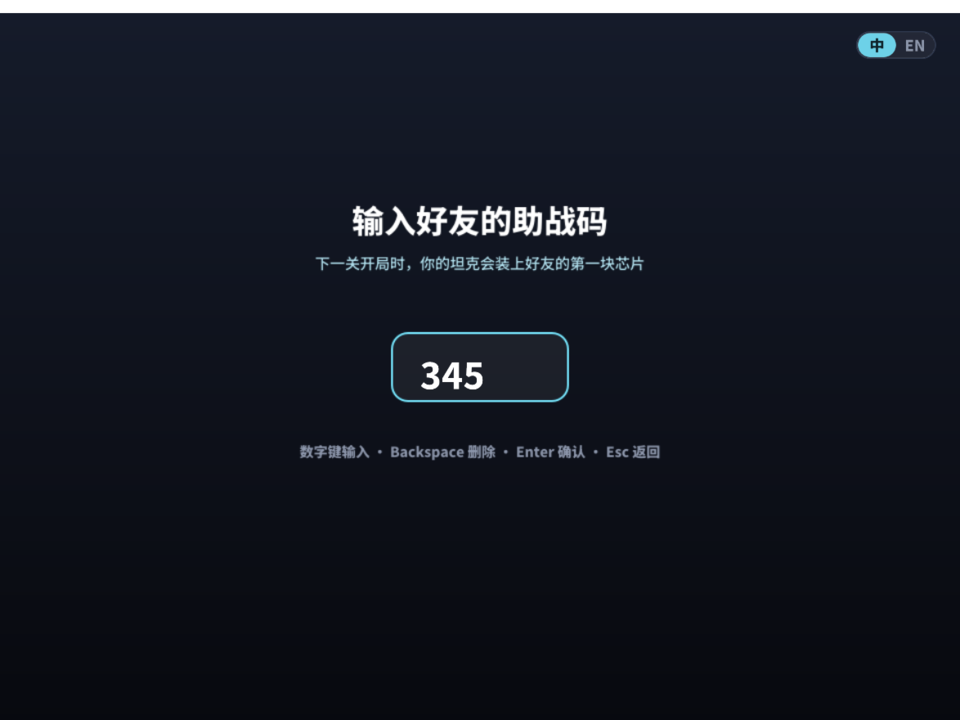
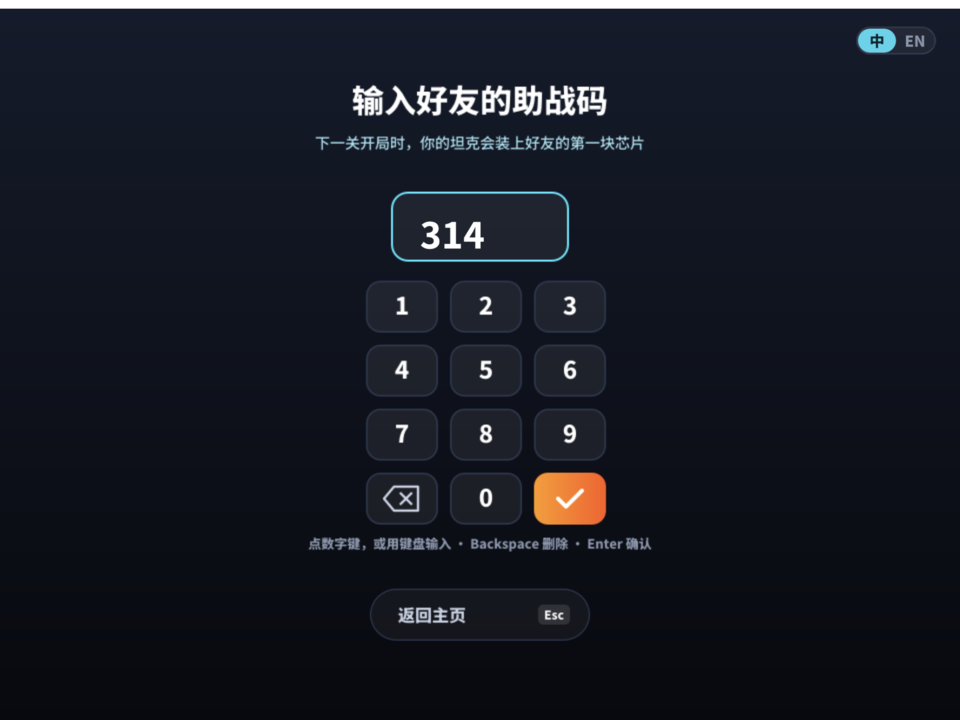
docs: v6 文档跟上手机操作补齐和排行榜部署准备（#91、#92）：117 个用例 ID，新的主页和助战码截图

diff --git a/docs/ARCHITECTURE.md b/docs/ARCHITECTURE.md
@@ -69,12 +69,12 @@ flowchart LR
 | 暂停 | `pauseGame()`（`gameOver = true` 冻结战场）、`resumeGame()`、`quitFromPause()`（自制地图回编辑器，其他回主页） |
 | 流程 | `goHome()`、`openLevels()`（选关画面）、`newGame(n, two)`、`playStage(n)`、`startGame()`、`again()`（结算后：下一关 / 重打本关 / 全部通关后回到第 1 关）、`watchAd()`、`revive()`（清场、补护墙、基地保护，见[第 5 节](#5-游戏流程状态机)）、`showResult()`、`setScreen()`、`confirm()`、`escKey()`（Esc 在各个画面做什么） |
 | 表现 | `look()`（画风后缀）、`langCode()`、`switchTheme()`、`switchLang()`、`toast()`、`shake()`、基地特写镜头、`lifeLook(n, slot, p2)`（生命图标用哪个造型：超过 3 条显示“图标 ×N”） |
-| 触屏 | `touchZone(x, y)`：手指按在哪里做什么。方向键范围内返回方向（移动并开火），战场内返回 1（只开火），顶栏和右侧面板返回 -1（不开火，按钮都在这里） |
+| 触屏 | `touchZone(x, y)`：手指按在哪里做什么。方向键范围内返回方向（移动并开火），战场内返回 1（只开火），顶栏和右侧面板返回 -1（不开火，按钮都在这里）。全屏画面和弹窗的按钮由 `UI.clickAt(x, y)` 按画面判断（区域来自生成的 `hit()`），测试直接调用它模拟点击 |
 | 界面布局 | `buildHud()`：创建所有 UI 克隆，坐标见[第 6 节](#6-坐标与布局) |
 | v6 局内升级 | 芯片规则 `chipKey` `chipRarity` `chipUnlocked` `hasChip`、效果 `bulletLimit` `bulletSpeed` `bounceLimit` `moveSpeed` `playerBlocked` `stealthed` `shieldBlock`、连携 `comboBarrage` `comboSalvo`；精英 `eliteSlot` `eliteDown`；三选一 `pickChip` `pickRoll` `pickChoose` `pickReroll`；等级 `resetRun` `snapRun` `clearRun` `loseLevel`；战术芯片 `fortify` `endFortify`（空袭广播 `bomb`、冰冻 `freezeLeft`）；每帧 `chipTick`（`chipLoop` 消息） |
 | v6 车库与存档 | `save.txt` 读写（`saveGame` `loadText` `initSave`）、指挥官等级（`gainXP` `levelForXP`）、钱包 `wallet`、涂装 `buySkin`、每日任务（`pickTasks` `taskAdd`）、`openGarage`；时间 `nowSec` / `today`（解释器里没有 `time.Now`，见 9.3） |
 | v6 每日挑战 | `dailyRows(day)`（按日期生成地图，和 `tools/levels/daily.py` 同一个算法）、`dailyRand`、`playDaily`、`dailyEnd`（一天一次正式成绩）；地图检查拆成纯函数 `mapProblem`，编辑器也用 |
-| v6 排行榜 | `lbRecord` `lbEnqueue` `lbFlush`（后台 goroutine 上传，离线排队）、`lbFetch` `lbHealth`、每帧 `lbPoll` 收结果、`openRanks` `lbShow` `lbText`；服务地址常量 `lbURL`（还没部署，是空的） |
+| v6 排行榜 | `lbRecord` `lbEnqueue` `lbFlush`（后台 goroutine 上传，离线排队）、`lbFetch` `lbHealth`、每帧 `lbPoll` 收结果、`openRanks` `lbShow` `lbText`；服务地址常量 `lbURL`（仓库里是空的，打包时用 `LB_URL` 填） |
 | v6 赛季与分享 | `seasonOf` `tierOf` `gainSeason`、连续打卡、`assistCode` / `assistDecode`、`openShare` `openAssist` `applyAssist`、`shareText` |
 | 画面小部件 | `panelOff` 和 `buildGarage` / `buildRanks` / `buildShare` / `buildAssist`：全屏画面的小部件打开时才创建（克隆上限，见 9.4） |
 | 路演演示 | `demoFlow` 消息处理（v2 内容之后调用 `demoV3()`：新关卡、双人合作、暂停菜单、编辑器里画地图并试玩；按 Esc 退出：`escKey` 设 `demoStop` 后重新广播 `demoFlow` 打断正在运行的演示，新的处理调用 `stopDemo()` 还原画风、语言和编辑器地图并回主页）、`autopilotDir()`、`seeEnemy()`、`autopilotBlocked()`、`waitState()` |
@@ -124,13 +124,13 @@ flowchart LR
 | `assets/textpath.py` | 把文字转成 SVG 路径；字体固定到 google/fonts 的某个提交并校验 sha256；缺字直接报错 |
 | `assets/build.py` | 生成：两套背景、现代画风的所有造型、经典画风的水面和草丛、`UI` 精灵的全部造型和 `index.json`、`UI.spx` 里的 `GENERATED widths` / `GENERATED hit` 区块 |
 | `levels/daily.py` | v6 每日挑战的地图生成器（和 `main.spx` 的 `dailyRows` 同一个算法）：打印某一天的地图，`--write` 重新生成 `tests/data/daily_maps.txt`（365 天） |
-| `server/leaderboard.py` | v6 自建排行榜服务（Python 标准库）：上传成绩、榜单、查名次、合理性检查、限频，海外 / 国内分开；接口见 `server/README.md`。还没部署 |
+| `server/leaderboard.py` | v6 自建排行榜服务（Python 标准库）：上传成绩、榜单、查名次、合理性检查、限频，海外 / 国内分开；接口见 `server/README.md`。部署文件在 `server/deploy/`（Docker + Caddy、systemd、冒烟检查），还没上线 |
 | `test/py_coverage.py` | v6 Python 行覆盖率（标准库 `trace`）：新工具要求 100% |
 | `levels/check.py` | 检查 `levelMap()` 里的每一关：13×13、出生点和基地位置、从出生点能到达基地、玩家能到达出生点、基地旁边没有钢墙和水面，1P / 2P 出生点都要能开到敌人出生点。地图编辑器的实时检查（`edCheck`）用同一套规则 |
 | `package_xbp.sh` | 打包 `TankBattle.xbp` |
 | `export/setup_spx.sh` | 准备打包环境：固定提交的 spx 源码（每次先恢复干净，再按顺序打 `export/patches/` 里的补丁）、`patch_spx.py` 改模板（包名、版本、图标、iOS 不签名）、xgo、`buildctl setup`；Go 版本和 `env.sh` 不一样时提醒（`GO_STRICT=1` 报错） |
 | `export/patches/` | 给 spx 源码打的补丁（`*.patch`，按文件名顺序打，打不上就停下），说明见里面的 `README.md`；`build.sh` 核对补丁改了而 spx 没重装时报错。目前没有补丁 |
-| `export/build.sh` | `build.sh <desktop\|web\|android\|ios> [--store] [--demo]`：`desktop`（buildlauncher 单文件，macOS 包成 .app）、`web`（exportweb + 外壳页面）、`android`（APK，触屏模式；先核对模板版本号，`SPX_REPATCH=1` 自动重装；调试证书在 `~/.config/tankbattle/debug.keystore`；Godot 编辑器设置里的 SDK 路径每次改成当前的）、`ios`（不签名 IPA，触屏模式；MoltenVK 核对 sha256）。`--store` / `--demo` 在副本里把 `storeBuild` / `demoBuild` 改成 true，包放 `dist/store/`、`dist/demo/`、`dist/store-demo/` |
+| `export/build.sh` | `build.sh <desktop\|web\|android\|ios> [--store] [--demo]`：`desktop`（buildlauncher 单文件，macOS 包成 .app）、`web`（exportweb + 外壳页面）、`android`（APK，触屏模式；先核对模板版本号，`SPX_REPATCH=1` 自动重装；调试证书在 `~/.config/tankbattle/debug.keystore`；Godot 编辑器设置里的 SDK 路径每次改成当前的）、`ios`（不签名 IPA，触屏模式；MoltenVK 核对 sha256）。`--store` / `--demo` 在副本里把 `storeBuild` / `demoBuild` 改成 true，包放 `dist/store/`、`dist/demo/`、`dist/store-demo/`；环境变量 `LB_URL` / `LB_REGION`（v6）把排行榜地址和区域写进副本的 `lbURL` / `lbRegion` |
 | `export/web/` | 网页版外壳：自动启动、4:3 铺满、多点触控虚拟按键、PWA |
 | `.github/workflows/release.yml` | 在云端打包（v3.0.0、v3.0.1 用它发布）。2026-10-25 起只能手动触发；输入 `platforms`（只打几个平台）、`upload_to`（补进已有的 Release）、`create_release`（在标签上新建 Release），**都不选时不发布**；第三方 Action 锁定到提交 SHA。平时用下面的 `build_local.sh` + `release_local.sh` 本机打包发布 |
 | `export/build_local.sh` | 本地打本机能打的全部平台（macOS、网页版、Android、Linux），每个包都检查（启动测试、直接运行安装包、PWA 文件、APK 签名和版本号），打不了的平台空着并写明原因，结果写在 `dist/BUILD_LOCAL.md`（记下提交号和工作区是否干净）；打包前删掉这次要打的平台的同版本旧包 |
@@ -201,7 +201,7 @@ stateDiagram-v2
   结算 --> 主页: H / 点击主页
 ```
 
-- `state` 取值：`stHome` `stPlay` `stRevive` `stAd` `stResult` `stEdit` `stPause` `stLevels`（选关画面，v5），v6 加了 `stPick`（三选一，战场冻结）、`stGarage`（车库，主页 G）、`stRanks`（排行榜，主页 B）、`stShare`（分享战报，每日挑战结算后 S）、`stAssist`（输入助战码，主页 A）。每日挑战是 `stage = dailyStage`（10），主页按 D。按键处理都先看 `state`，同一个键在不同画面有不同含义。
+- `state` 取值：`stHome` `stPlay` `stRevive` `stAd` `stResult` `stEdit` `stPause` `stLevels`（选关画面，v5），v6 加了 `stPick`（三选一，战场冻结）、`stGarage`（车库，主页 G）、`stRanks`（排行榜，主页 B）、`stShare`（分享战报，每日挑战结算后 S）、`stAssist`（输入助战码，主页 A 或“助战码”卡片，屏幕上有数字键盘）。每日挑战是 `stage = dailyStage`（10），主页按 D。按键处理都先看 `state`，同一个键在不同画面有不同含义。
 - `gameOver` 表示“战场冻结”，坦克和子弹在冻结时不动。除了 `stPlay` 以外的状态，战场都是冻结的。
 - **每关只能复活一次**：`reviveStage` 记下在哪一关复活过，`startGame` 里 `revived = reviveStage == stage`。暂停菜单的“重新开始本关”不清零（不会再给一次复活）；输了以后在结算画面重打本关、从主页或选关画面进关、过关进入下一关、试玩自制地图都会清零（可以再复活一次）。
 - **复活**（`revive()`）：修好基地、加命，广播 `reviveClear` 清掉敌人子弹和基地 3 格以内的敌人，按本关地图把基地四周碎了、裂了的护墙恢复成砖墙，广播 `baseGuard` 让基地 3 秒内打不掉。复活后如果敌人已经全灭，直接胜利结算。
@@ -441,7 +441,9 @@ v6.0 的 PR 依次叠在前一个上（#85 → #86 → … ），最后合入集
 | #88 | danielfeng | P3 每日挑战：全球同图同芯片、一天一次正式成绩（D01~D11） |
 | #89 | danielfeng | P3b 全球排行榜：服务端 `server/` + 客户端（R01~R29） |
 | #90 | danielfeng | P4 赛季、分享战报、助战码（S01~S09、Q04） |
-| #91 | danielfeng | v6 文档、截图、测试方案、Python 行覆盖、覆盖率基线（Q05~Q07） |
+| #91 | danielfeng | P4b 手机上也能用助战码和分享战报：主页卡片、屏幕数字键盘、点标签打开战报（S10~S11） |
+| #92 | danielfeng | P3c 排行榜部署准备：`server/deploy/`、打包时填 `LB_URL` / `LB_REGION`（R30~R32） |
+| #93 | danielfeng | v6 文档、截图、测试方案、Python 行覆盖、覆盖率基线（Q05~Q07） |
 
 ### 分工
 
@@ -458,7 +460,7 @@ v6.0 的 PR 依次叠在前一个上（#85 → #86 → … ），最后合入集
 | 演示视频与文档 | danielfeng | 实机截图、演示视频、README、架构文档、更新记录、v4.0 发布文档、v5.0 规划 |
 | v4.0.1 修复与本机打包 | danielfeng | 子弹迎面相撞的修复（#52）、本机打包和发布脚本（#51、#53） |
 | v5 第一批修复（P1） | danielfeng | 游戏修复和选关画面（#59~#76）、打包和测试工具（#65~#75）、难度模拟（#63）、文档 |
-| v6.0 功能与测试 | danielfeng | 敌我区分、精英与芯片、车库与存档、每日挑战、排行榜（服务端和客户端）、赛季与分享，以及每个功能的测试（#85~#91） |
+| v6.0 功能与测试 | danielfeng | 敌我区分、精英与芯片、车库与存档、每日挑战、排行榜（服务端和客户端）、赛季与分享、手机操作补齐、排行榜部署准备，以及每个功能的测试（#85~#93） |
 | 测试与覆盖率（v4.0） | zhangxunling | 测试方案、引擎内测试框架、全部测试用例（规则、流程、编辑器、双人、构建工具、网页外壳、XBuilder 兼容、安装包启动）、覆盖率统计和基线、本地检查 `pr_check.sh`、PR 模板 |
 
 测试与覆盖率的 PR 里，#24~#43 由 zhangxunling 的账号提交；#44~#47（网页外壳测试、XBuilder 兼容检查、安装包启动测试、覆盖率基线和 PR 模板）由 danielfeng 的账号代为提交，内容同属测试与覆盖率。测试发现的游戏问题（例如子弹相撞）由 danielfeng 确认和修复：v4.0.1 的修复（#52）先提交能复现问题的测试，再提交修复，都由 danielfeng 的账号提交。

diff --git a/docs/v6/PLAN.md b/docs/v6/PLAN.md
@@ -1,6 +1,6 @@
 # 坦克大战 v6.0 · 规划和实现：敌我区分、打精英升级、排行榜
 
-> **v6.0 的 P0~P4 已经实现**（PR #85~#89），截图都是游戏实际运行的画面（`screens/`）。还没做的：平台好友榜（P5，要等 SDK 桥）、排行榜服务的正式部署（服务端代码和测试已完成）。依据分三类：**代码**（仓库里的实现）、**公开资料**（2026-10-31 / 11-01 查阅，上线前要重新核对）、**推测**（所有留存和收入数字）。
+> **v6.0 的 P0~P4 已经实现**（PR #85~#92），截图都是游戏实际运行的画面（`screens/`）。还没做的：平台好友榜（P5，要等 SDK 桥）、排行榜服务正式上线（服务端、部署文件和测试都已完成，需要服务器和域名）。依据分三类：**代码**（仓库里的实现）、**公开资料**（2026-10-31 / 11-01 查阅，上线前要重新核对）、**推测**（所有留存和收入数字）。
 
 **目标只有一个：让玩家明天还想回来。** v5 的回本测算假设平均每个玩家只玩 2 天（[盈利方案](../v5/MONETIZATION.md)），多留一天，广告收入就多一半。
 
@@ -9,8 +9,8 @@
 | 1 | **敌我区分** | 我方亮色圆炮塔 + 光圈 + “1P · Lv3”标签；敌方统一枪灰色切角车身 + 红色标识 | ✅ #85 |
 | 2 | **局内升级** | 打掉紫色精英坦克掉芯片，三选一，最高 Lv4，被击毁掉 1 级 | ✅ #86 |
 | 3 | **局外成长** | 车库：指挥官等级解锁芯片（只加选择、不加数值），金币换涂装，每日任务，存档 | ✅ #87 |
-| 4 | **回来的理由** | 每日挑战（全球同图同芯片）、免费赛季、分享战报、助战码 | ✅ #88、#89 |
-| 5 | **排行榜** | 全球周榜、每日挑战榜自建（服务端 + 客户端，海外和国内分开）；好友榜用各平台自己的 | ✅ 自建榜（未部署）· ⏳ 好友榜 |
+| 4 | **回来的理由** | 每日挑战（全球同图同芯片）、免费赛季、分享战报、助战码 | ✅ #88、#90、#91 |
+| 5 | **排行榜** | 全球周榜、每日挑战榜自建（服务端 + 客户端，海外和国内分开）；好友榜用各平台自己的 | ✅ 自建榜（#89、#92，未上线）· ⏳ 好友榜 |
 | 6 | **测试全覆盖** | 每个用例 ID 都有测试，v6 新函数全部执行到，新工具 100% 行覆盖 | ✅ [测试方案](TEST_PLAN.md) |
 
 | 主页 | 战斗（双人、精英、掉落的芯片） | 三选一 |
@@ -81,8 +81,8 @@
 |---|---|
 | **每日挑战** | 主页按 D。地图按日期生成（北京时间 0 点换），全世界同一张图；敌人顺序和三选一也用当天的种子，卡池是全部 12 块（和指挥官等级无关）；只能单人。今天第一局是**正式成绩**，之后是练习。2026-11-01 是第 1 期。Python 版生成器 `tools/levels/daily.py` 和游戏里逐格相同，365 张都通过 `check.py` |
 | **免费赛季** | 6 周一季（2026-11-01 开始 S1）。积分：每日挑战正式成绩 50 + 得分 / 200，战役过一关 20；段位青铜 → 白银 300 → 黄金 800 → 铂金 1600 → 钻石 3000 → 王牌 5000；到黄金送赛季涂装；换季积分清零 |
-| **分享战报** | 每日挑战结算后按 S：期数、得分、用时、全球名次（联网时）、连续打卡、芯片、助战码。玩家截图分享；一键分享到微信要等 SDK 桥 |
-| **助战码** | 5 位数字（3 位芯片 + 2 位校验）。好友在主页按 A 输入，下一局战役开局装上你的第一块芯片（每日挑战不用，保证公平）。规划稿里的“链接点开、AI 坦克来帮守”要平台分享接口，先用助战码代替 |
+| **分享战报** | 每日挑战结算后按 S（手机上点“正式成绩”标签）：期数、得分、用时、全球名次（联网时）、连续打卡、芯片、助战码。玩家截图分享；一键分享到微信要等 SDK 桥 |
+| **助战码** | 5 位数字（3 位芯片 + 2 位校验）。好友在主页按 A 或点“助战码”卡片输入（手机上用屏幕数字键盘），下一局战役开局装上你的第一块芯片（每日挑战不用，保证公平）。规划稿里的“链接点开、AI 坦克来帮守”要平台分享接口，先用助战码代替 |
 | **看视频刷新** | 见第二节；去广告和 PC 版免费 |
 | **断签不惩罚** | 连续打卡只展示，断了从 1 开始，不扣东西 |
 
@@ -110,19 +110,19 @@
 
 | 榜 | 谁提供 | 内容 | 状态 |
 |---|---|---|---|
-| 每日挑战榜 | 自建 | 当天的正式成绩 | ✅ 客户端 + 服务端，未部署 |
+| 每日挑战榜 | 自建 | 当天的正式成绩 | ✅ 客户端 + 服务端 + 部署文件，未上线 |
 | 全球周榜 | 自建 | 单人战役的累计得分，周一换周 | ✅ 同上 |
 | 好友榜 | 各平台（Steam / Game Center / 微信开放数据域） | — | ⏳ P5，要等 SDK 桥 |
 
 - **服务端** `server/leaderboard.py`：只用 Python 标准库；上传、榜单、查名次；合理性检查（分数上限按关数、用时、芯片和等级）、限频、**海外（global）和国内（cn）完全分开**；不存 IP 等个人信息。接口见 [server/README.md](../../server/README.md)。
-- **客户端**：一局结束后在后台 goroutine 里上传（不卡画面）；没联网时排队（存档里也有，最多 20 条），联网后补传；排行榜画面按 B。服务地址是 `main.spx` 的常量 `lbURL`，**部署后填上**；现在是空的，游戏里显示“排行榜服务还没上线”。
+- **客户端**：一局结束后在后台 goroutine 里上传（不卡画面）；没联网时排队（存档里也有，最多 20 条），联网后补传；排行榜画面按 B。服务地址是 `main.spx` 的常量 `lbURL`，部署后打包时用 `LB_URL=https://...` 填上（只改打包副本，见 [server/README.md 的“部署”一节](../../server/README.md#部署)）；仓库里一直是空的，游戏里显示“排行榜服务还没上线”。
 - **玩家身份：不用手机号注册**。现在用第一次启动时生成的随机 16 位 ID，榜上显示“指挥官 #编号”；接上 SDK 后换成平台账号（Game Center 的 `teamPlayerID`、Play 游戏服务、微信 `openid`、SteamID）。不做跨平台账号：同一个人在 Steam 和微信是两条记录，正好分别进海外榜和国内榜。
 - **网页版拿不到本机时间**（spx 的解释器里没有 `time.Now`，桌面版用临时文件的修改时间）：用排行榜服务健康检查返回的日期。
 - 微信小游戏的实名和防沉迷由平台统一做（腾讯健康系统），上线前和版号要求一起核实。
 
 ## 六、测试全覆盖
 
-见 [v6 测试方案](TEST_PLAN.md)：16 个新测试文件、112 个用例 ID（V / U / K / D / R / S / Q），每个 ID 都有测试；`pr_check.sh --coverage` 在 v6 的 ID 缺测试、新函数没执行到、新工具行覆盖不到 100% 时直接失败。
+见 [v6 测试方案](TEST_PLAN.md)：17 个新测试文件、117 个用例 ID（V / U / K / D / R / S / Q），每个 ID 都有测试；`pr_check.sh --coverage` 在 v6 的 ID 缺测试、新函数没执行到、新工具行覆盖不到 100% 时直接失败。
 
 测试和截图发现的最大问题：spx 和 Scratch 一样**全部精灵最多 300 个克隆**，排行榜的数字克隆常驻时超过上限，地图格子和敌人出不来（不报错）。现在全屏画面的小部件按需创建、离开时删掉，并加了克隆预算测试。
 
@@ -136,12 +136,14 @@
 | P3 | #88 | 每日挑战（D01~D11） |
 | P3b | #89 | 全球排行榜：服务端 + 客户端（R01~R29） |
 | P4 | #90 | 赛季、分享战报、助战码（S01~S09、Q04） |
-| 文档 | #91 | 本文、测试方案、架构文档、截图、覆盖率基线、Python 行覆盖（Q05~Q07） |
+| P4b | #91 | 手机上也能用助战码和分享战报：主页“助战码”卡片、屏幕数字键盘、点“正式成绩”标签打开战报（S10~S11） |
+| P3c | #92 | 排行榜部署准备：`server/deploy/`（Docker + Caddy 自动 HTTPS、systemd、冒烟检查），打包时用 `LB_URL` / `LB_REGION` 填地址（R30~R32） |
+| 文档 | #93 | 本文、测试方案、架构文档、截图、覆盖率基线、Python 行覆盖（Q05~Q07） |
 
 **还没做**：
 - **P5 平台好友榜**：Steam / Game Center / 微信开放数据域，和广告 SDK 共用一座桥（[MONETIZATION.md 第五节](../v5/MONETIZATION.md#五技术前提为什么-sdk-现在接不上代码)）。
-- **排行榜部署**：海外一份、国内一份（国内数据存境内）；部署后把地址填进 `lbURL`。
-- **一键分享、内购去广告、手机上输入助战码**：都要平台接口；手机版现在没有键盘输入。
+- **排行榜上线**：部署文件已备好，Docker 镜像在本机构建、运行、冒烟检查都通过。还差：一台海外服务器 + 域名；国内榜还要境内服务器和 ICP 备案（或者用微信云开发重写一份）。上线后用 `LB_URL` 重新打包。
+- **一键分享、内购去广告**：都要平台接口。
 - 规划稿里的“每日挑战附操作录像、前 100 名抽查”：先只做服务端的合理性检查，录像以后做。
 
 ## 效果图（规划时）

diff --git a/docs/v6/TEST_PLAN.md b/docs/v6/TEST_PLAN.md
@@ -12,7 +12,7 @@ v6 沿用 v4 的测试框架（[v4 测试方案](../v4/TEST_PLAN.md)：引擎内
 | 克隆预算 | 常驻的 UI 克隆 + 最满的地图（169 格）+ 坦克子弹爆炸（30 个）≤ 300 | `tests/spx/budget.spx`（Q01~Q03）、`tests/tools/test_daily.py`（Q04） |
 | XBuilder 兼容 | spx v3.3.0 能编译 | `tools/test/xbuilder_check.sh`（T09） |
 
-按键和点击的处理（`onKey`、`onClick`）在无界面测试里触发不了：处理里只调一个舞台函数（例如三选一的 1 / 2 / 3 都调 `pickChoose`），测这个函数。
+按键和点击的处理（`onKey`、`onClick`）在无界面测试里触发不了：处理里只调一个舞台函数（例如三选一的 1 / 2 / 3 都调 `pickChoose`），测这个函数。全屏画面上的按钮点击都走 `UI.clickAt(x, y)`，测试直接用舞台坐标调用它模拟点击（S10、S11）。
 
 ## 二、新增的测试文件
 
@@ -31,7 +31,9 @@ v6 沿用 v4 的测试框架（[v4 测试方案](../v4/TEST_PLAN.md)：引擎内
 | `tests/spx/daily.spx` | D04~D11 | 每日挑战（游戏） |
 | `tests/spx/board.spx` | R01~R09 | 排行榜客户端（端到端：测试脚本在本机起一个排行榜服务） |
 | `tests/tools/test_leaderboard.py` | R10~R29 | 排行榜服务 |
-| `tests/spx/season.spx` | S01~S09 | 赛季、分享战报、助战码 |
+| `tests/tools/test_release_tools.py` | R30 | 打包时填排行榜地址和区域（`LB_URL` / `LB_REGION`） |
+| `tests/tools/test_deploy.py` | R31~R32 | 排行榜的部署文件、部署后的冒烟检查 |
+| `tests/spx/season.spx` | S01~S11 | 赛季、分享战报、助战码；手机上的助战码键盘和分享入口 |
 | `tests/spx/budget.spx` | Q01~Q03 | 克隆预算 |
 | `tests/tools/test_cli_coverage.py` | Q05~Q07 | 工具的命令行入口和少见的分支 |
 
@@ -159,6 +161,9 @@ v6 沿用 v4 的测试框架（[v4 测试方案](../v4/TEST_PLAN.md)：引擎内
 | R27 | 服务：榜单的条数和参数 |
 | R28 | 服务：查名次 |
 | R29 | 服务：重启后数据还在，不存 IP |
+| R30 | 打包：`LB_URL` / `LB_REGION` 只改打包副本里的常量；不设置不改；只收 `https://`（本机测试可以 http）、区域只能 global / cn |
+| R31 | 部署文件：Dockerfile、systemd 的启动参数服务端都认识；Caddy 反向代理到服务的端口，请求体上限不小于服务端的 |
+| R32 | 冒烟检查脚本：对本机的服务通过（海外、国内）；路径不对、区域不对时失败 |
 
 ### 3.6 赛季、分享战报、助战码（S）
 
@@ -173,6 +178,8 @@ v6 沿用 v4 的测试框架（[v4 测试方案](../v4/TEST_PLAN.md)：引擎内
 | S07 | 助战码编码、校验 |
 | S08 | 输入助战码、下一关送芯片、每日挑战不用 |
 | S09 | 分享战报的内容；Esc 回到结算 |
+| S10 | 手机 / 鼠标：主页的“助战码”卡片，屏幕数字键盘输入、删除、确认，返回按钮 |
+| S11 | 手机 / 鼠标：结算画面点“正式成绩”标签打开分享战报，点战报回到结算 |
 
 ### 3.7 质量（Q）
 
